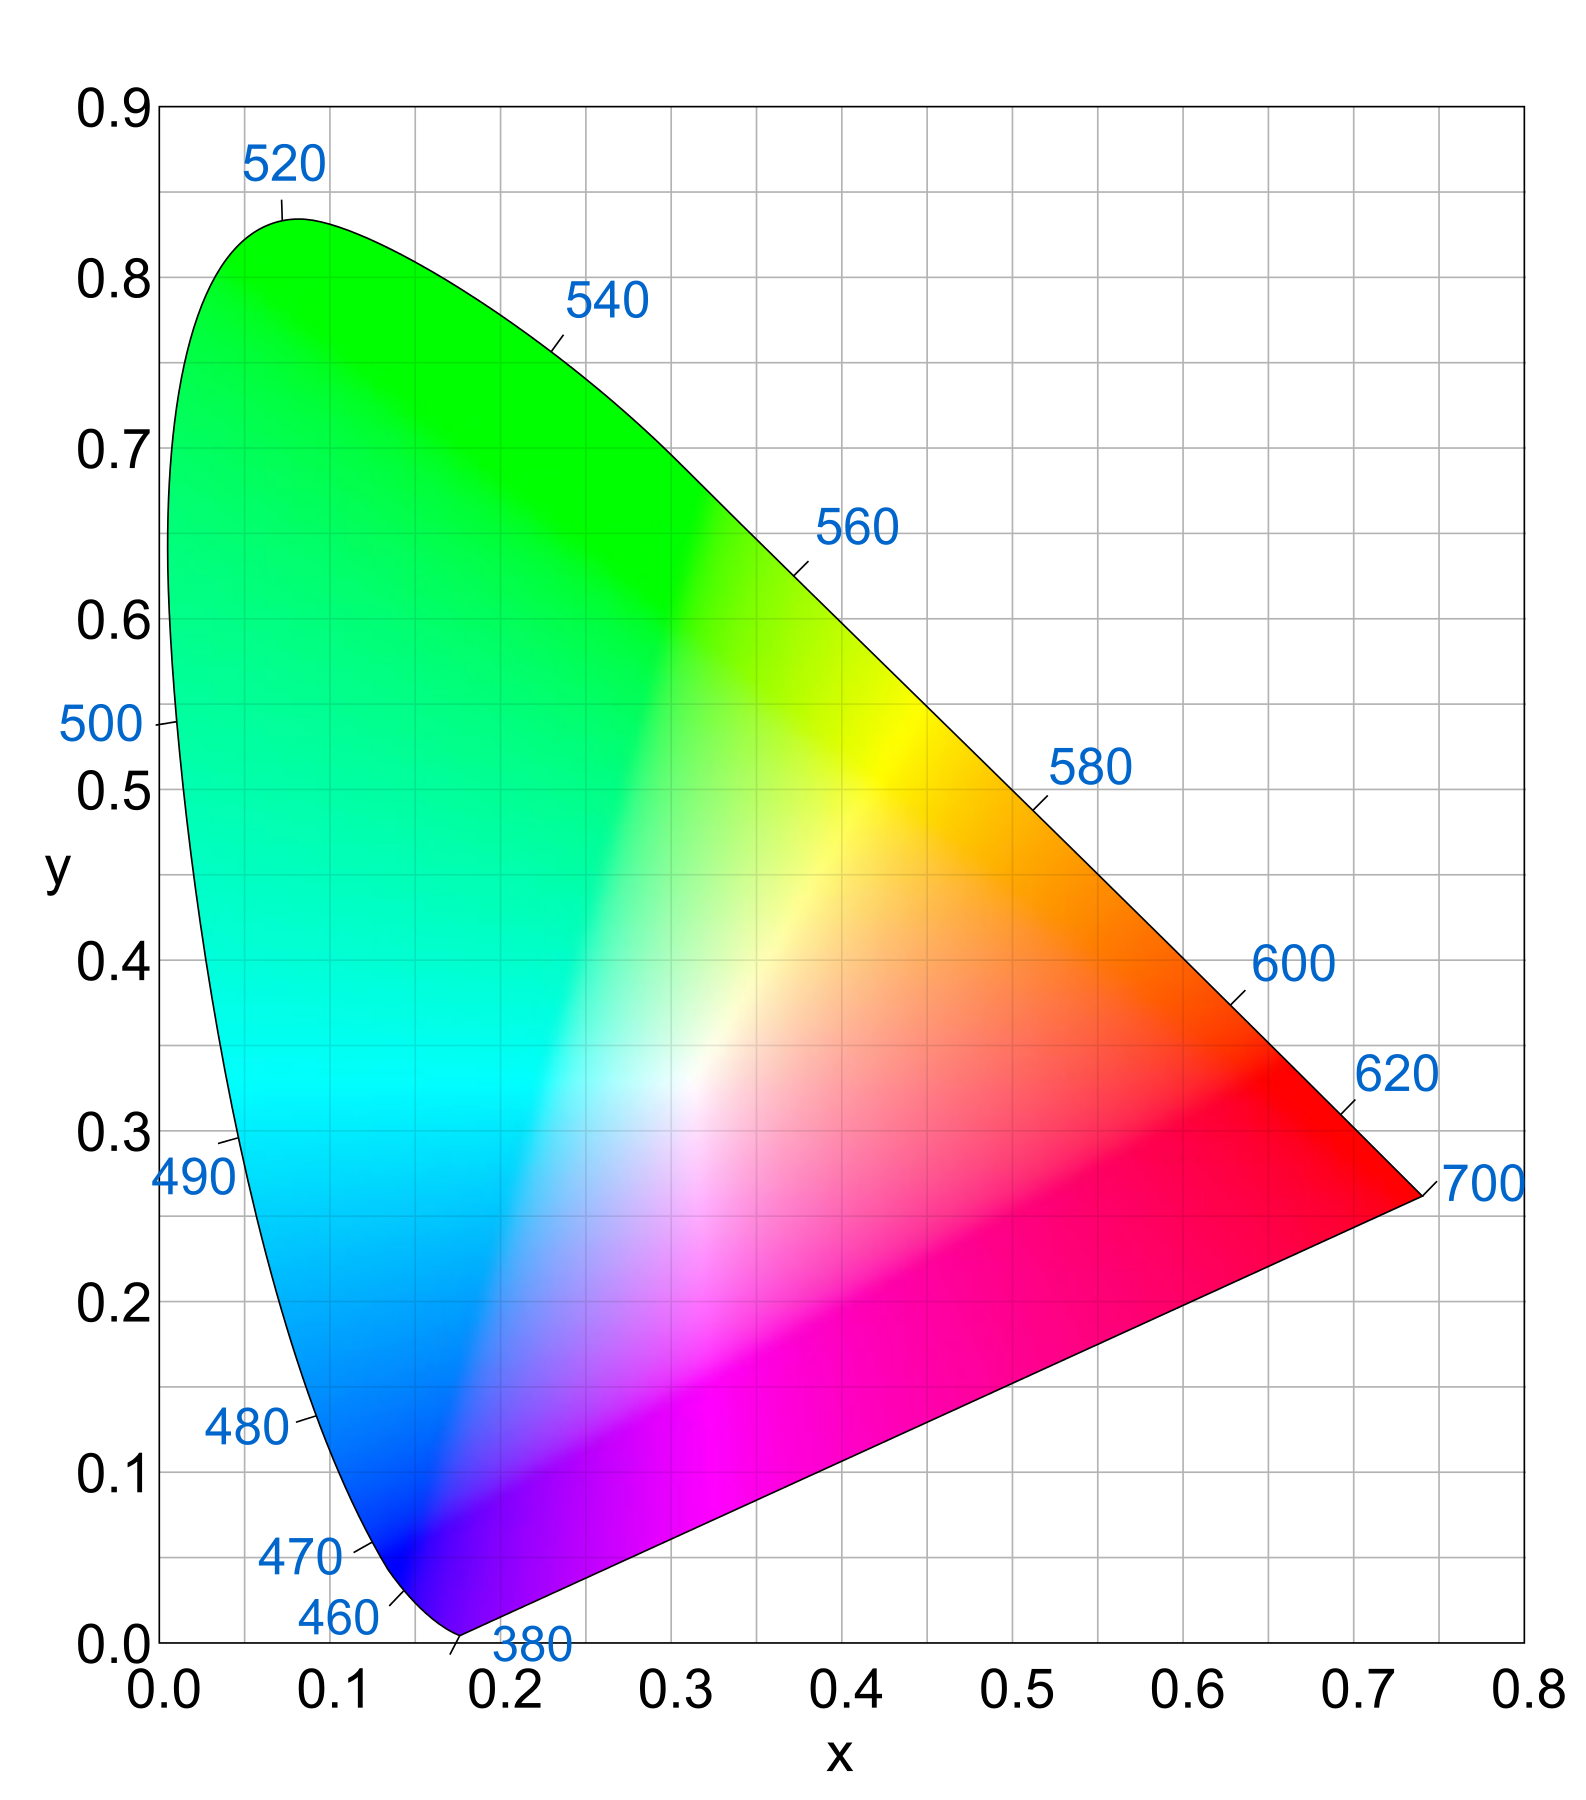
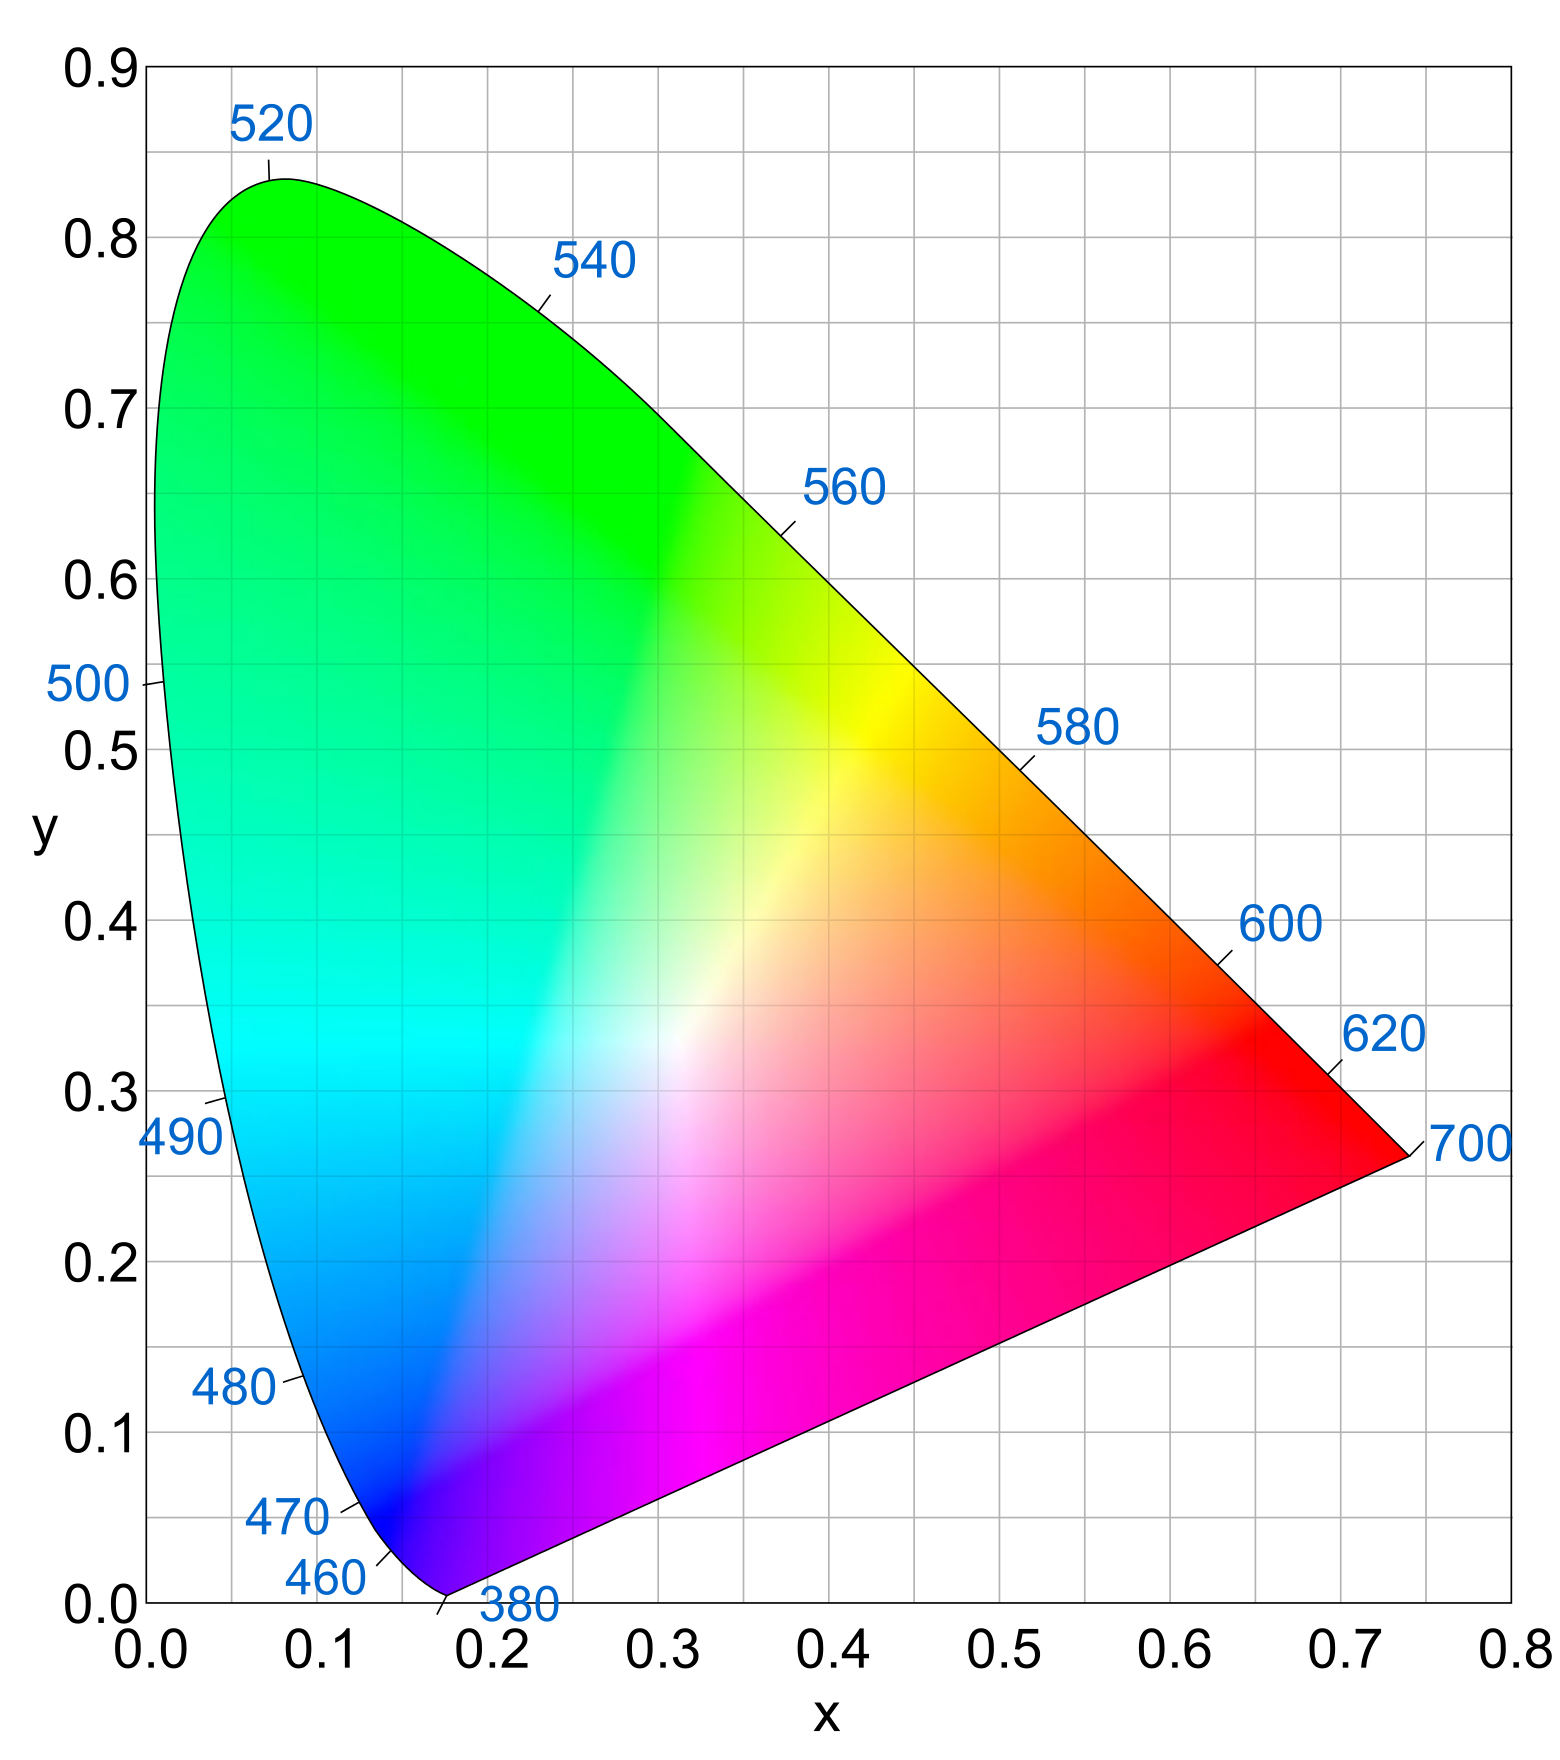
Updated CIE Images with sources

diff --git a/thesis/theDoc.TeX b/thesis/theDoc.TeX
@@ -636,17 +636,17 @@ Normierungsversuch beschlossen, um ein "'weltweit einheitliches Darstellungssyst
 \subsubsection{CIE 1931}
 \begin{figure}[H]
     \begin{center}
-        \includegraphics[width=.5\textwidth]{images/cie_1931.png}
+        \includegraphics[width=.7\textwidth]{images/cie_1931.png}
     \end{center}
-    \caption{CIE 1931 2D Farbraum}
+    \caption{CIE 1931 2D Farbraum \cite{wikipedia1931Image}}
 \end{figure}
 \noindent
 \subsubsection{CIE 1976}
 \begin{figure}[H]
     \begin{center}
-        \includegraphics[width=.5\textwidth]{images/cie_1976.png}
+        \includegraphics[width=.7\textwidth]{images/cie_1976.png}
     \end{center}
-    \caption{CIE 1976 2D Farbraum}
+    \caption{CIE 1976 2D Farbraum \cite{wikipedia1976}}
 \end{figure}
 \noindent
 \clearpage
@@ -1383,6 +1383,8 @@ c - Lichtgeschwindigkeit - 299 792 458 meter pro sekunde
     \bibitem[RGB-Farbraum - Wikipedia,2019]{wikipediaRGB} \url{https://de.wikipedia.org/wiki/RGB-Farbraum}. Visited on: 29.09.2019
     \bibitem[Hermann Graßmann - Wikipedia,2019]{wikipediaGrassmann} \url{https://de.wikipedia.org/wiki/Hermann\_Gra%C3%9Fmann}. Visited on: 29.09.2019
     \bibitem[Graßmannsche Gesetze - Wikipedia,2019]{wikipediaGrassmannGestze} \url{https://de.wikipedia.org/wiki/Gra%C3%9Fmannsche_Gesetze}. Visited on: 29.09.2019
+    \bibitem[CIExy1931 - Wikipedia,2019]{wikipedia1931Image} \url{https://de.wikipedia.org/wiki/Datei:CIExy1931.svg}. Visited on: 30.09.2019
+    \bibitem[CIELUV - Wikipedia,2019]{wikipedia1976} \url{https://de.wikipedia.org/wiki/CIELUV-Farbraumsystem}. Visited on: 30.09.2019
     \bibitem[Leuchtdiode Wikipedia, 2019]{wikiLed}"'Leuchtdiode - Wikipedia"', \url{https://de.wikipedia.org/wiki/Leuchtdiode}. Visited on: 21.08.2019
     \bibitem[Showlicht von Scribble zum fertigen Desgin, 2014]{showlicht}"'Showlicht von Scribble zum fertigen Desgin"', 01.09.2019
     \bibitem[Philips PAR64 Leuchtmittel 1000W | Thomann, 2019]{convpar}"'Philips PAR64 Leuchtmittel 1000W | Thomann"', \url{https://www.thomann.de/de/philips_par64_1000_watt_mfl_cp62_exe.htm}. Visited on: 02.09.2019
